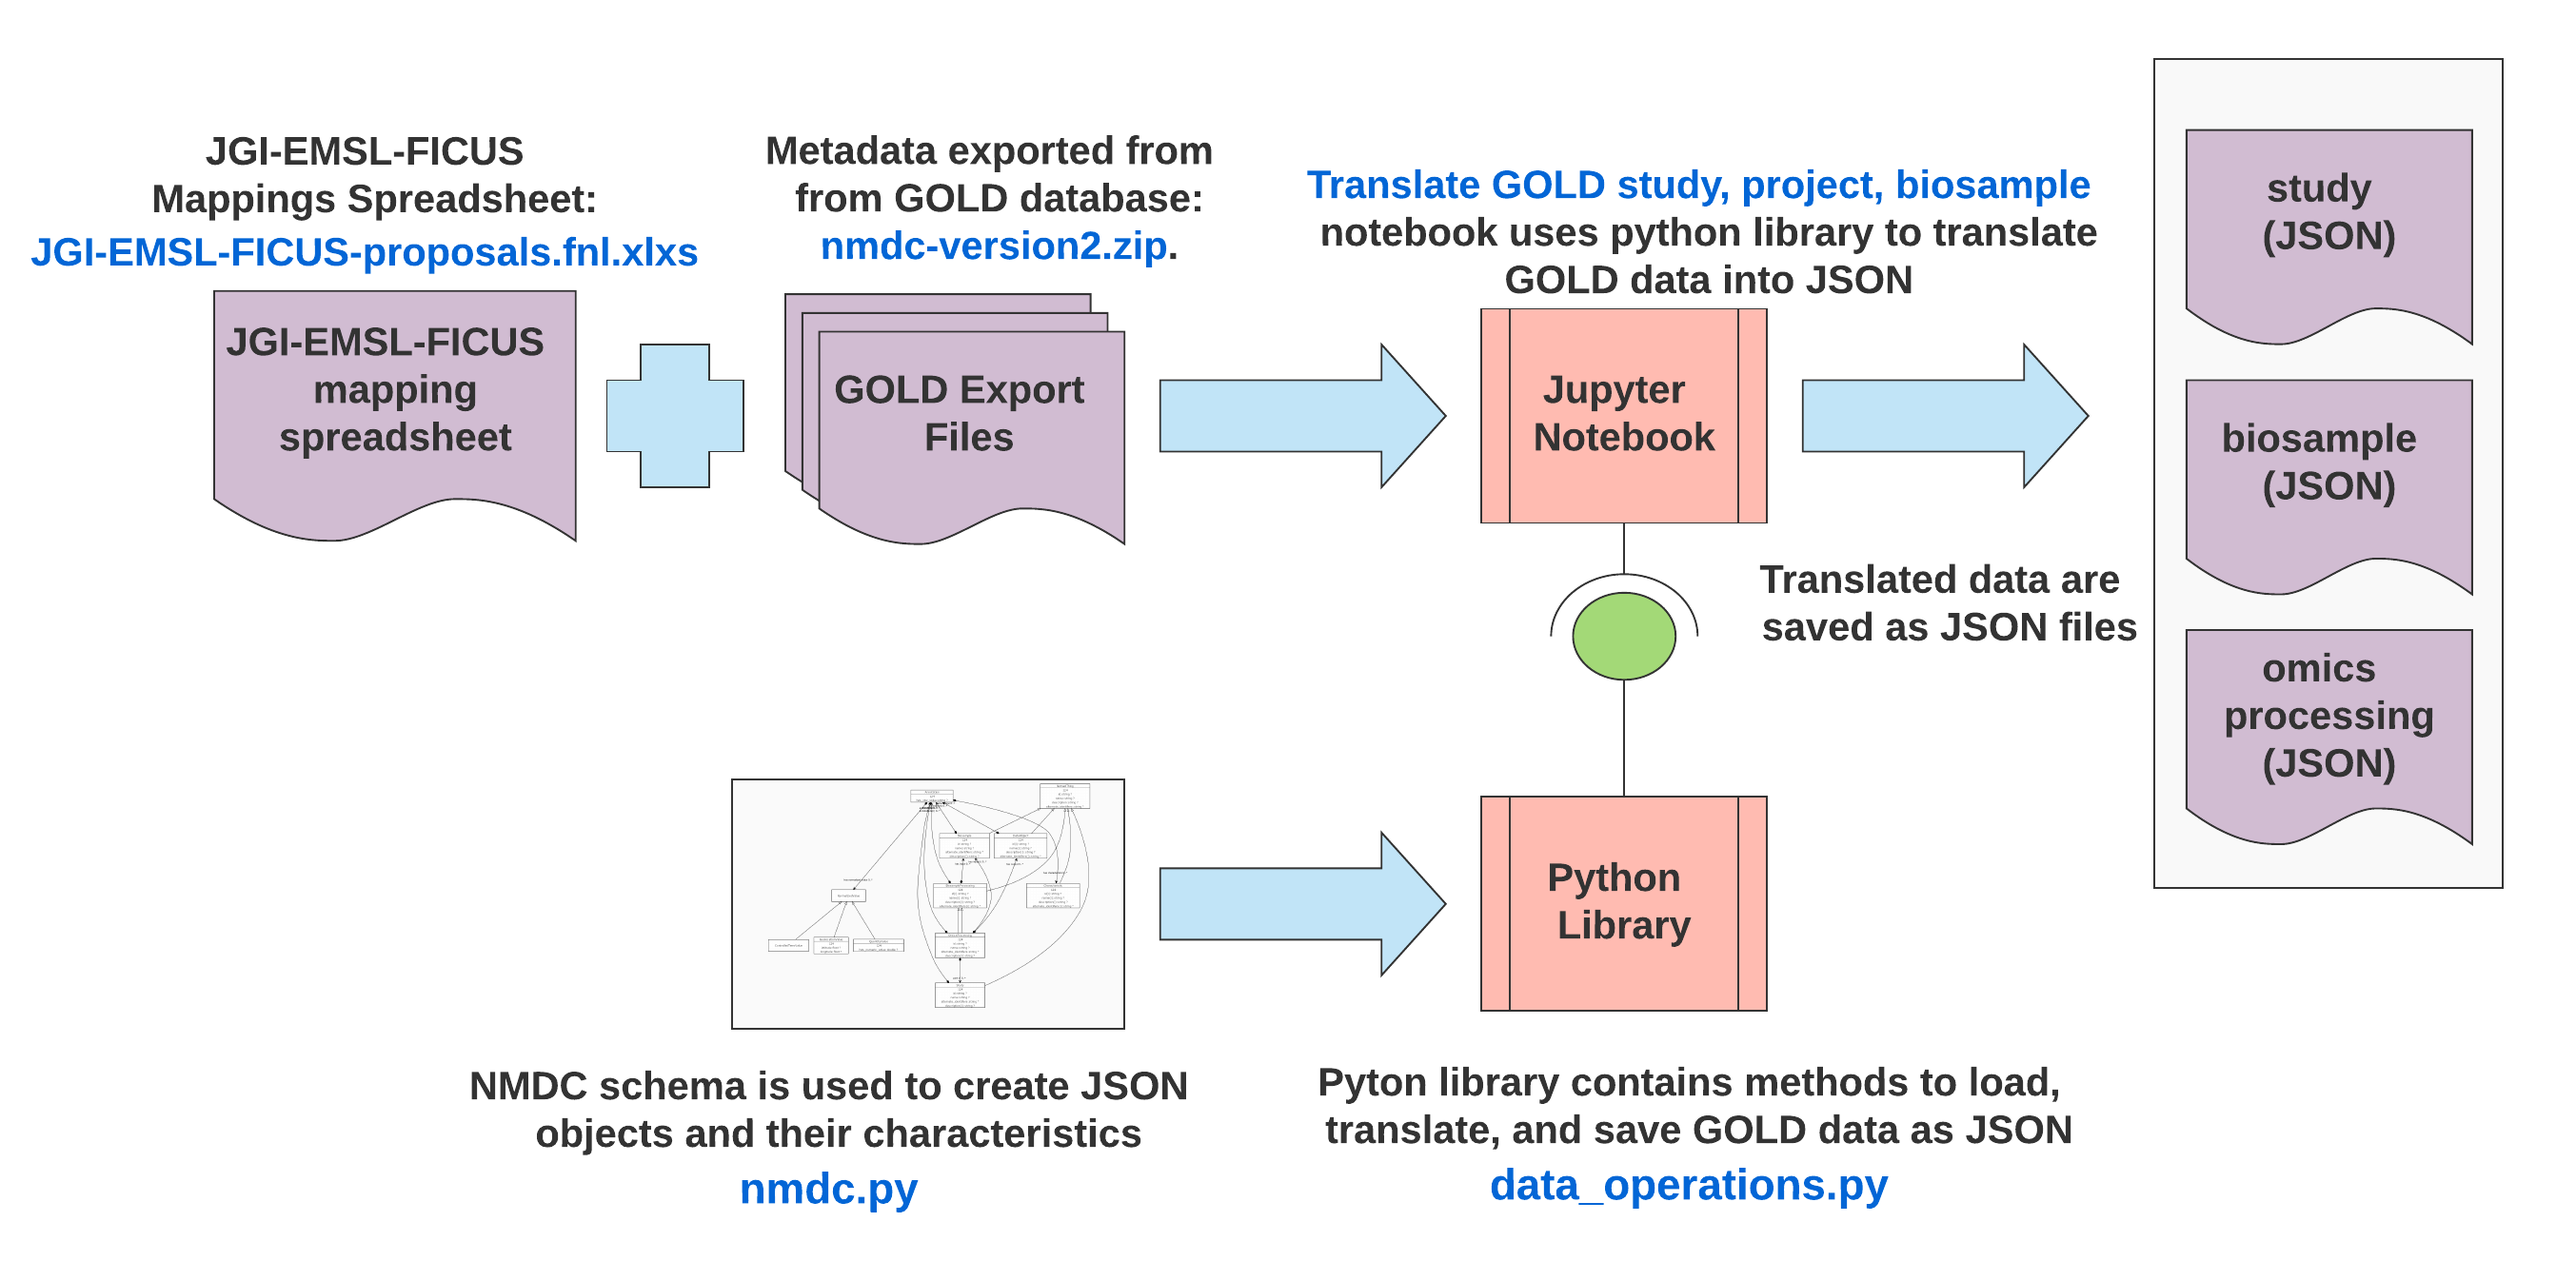
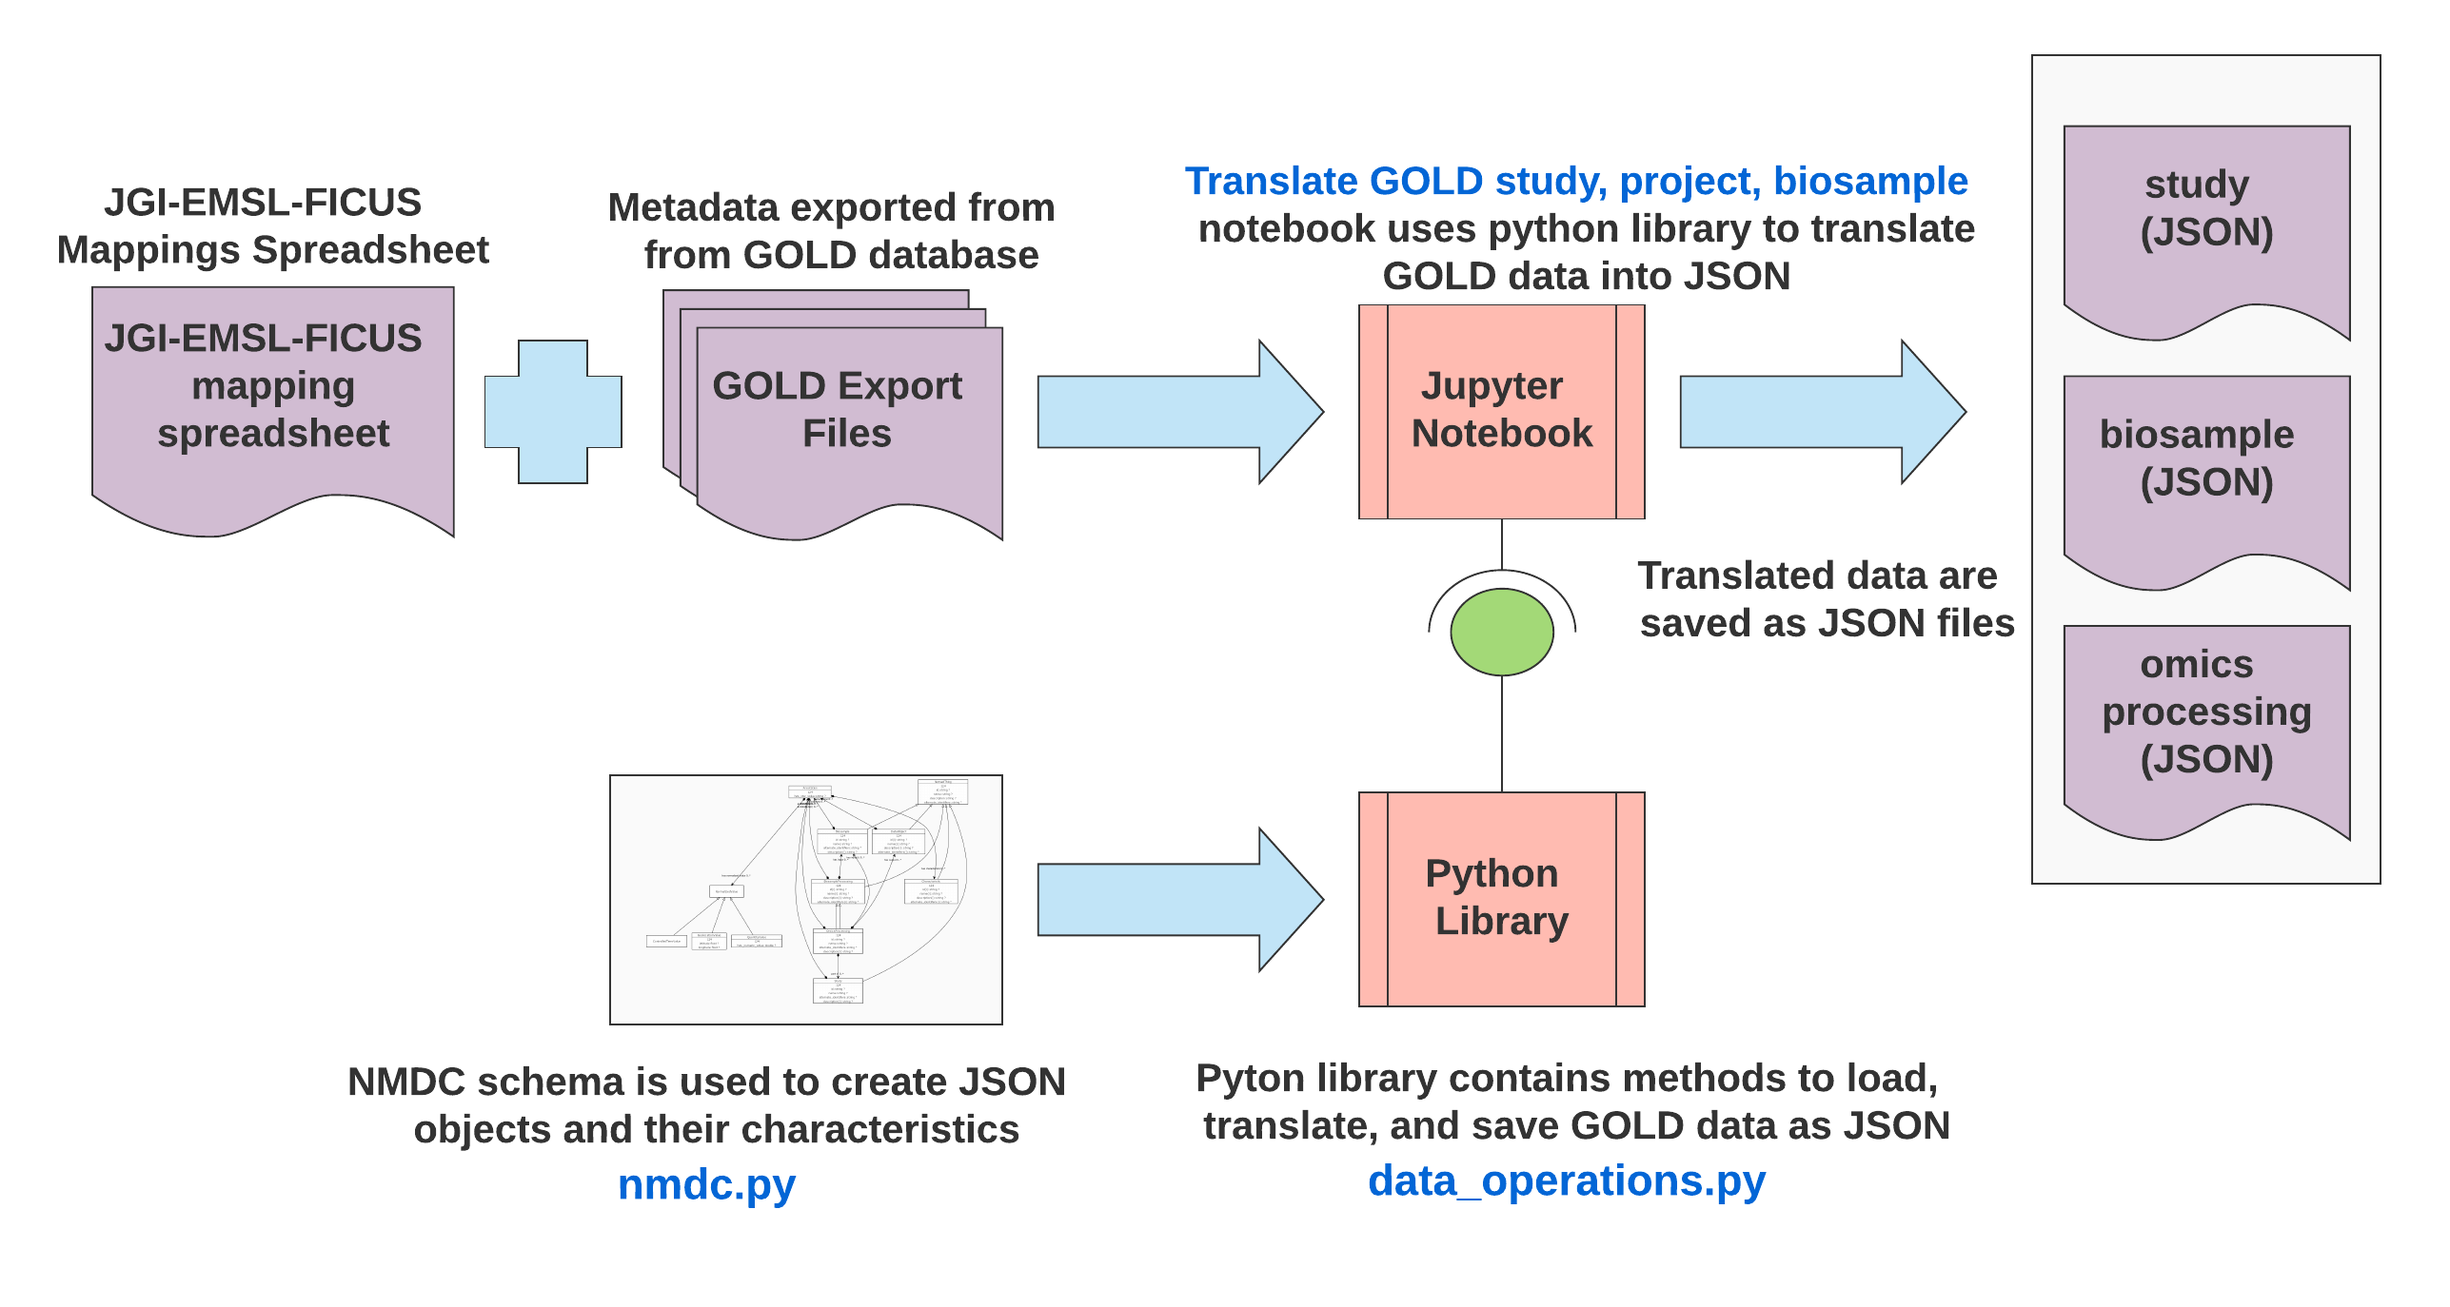
update notebooks readme

Changed region(s): [[0.0, 0.0936, 0.9635, 0.6865], [0.1243, 0.5929, 0.8081, 0.9361], [0.8392, 0.0312, 0.9635, 0.0624]]

diff --git a/metadata-translation/notebooks/README.md b/metadata-translation/notebooks/README.md
@@ -20,16 +20,36 @@ The metadata translation workflow consists of the notebooks executed in the foll
 2. [Translate GOLD data objects](https://github.com/microbiomedata/nmdc-metadata/blob/master/metadata-translation/notebooks/translate-GOLD-data-objects.ipynb)
 3. [Translate EMSL data](https://github.com/microbiomedata/nmdc-metadata/blob/master/metadata-translation/notebooks/translate-EMSL-data.ipynb)
 
-A hig-level overview of the translation process is depicted below.  The output of the last step is forwarded to the web-development team for ingestion.
+A high-level overview of the translation process is depicted below. At each step, metadata and the [NMDC schema](lib/nmdc.py) are input into the translation notebook, and JSON files are created. The output of the last step is forwarded to the web-development team for ingestion and display on the [NMDC pilot site](https://microbiomedata.github.io/pilot/).  
+
 ![img](images/NMDC-jupyter-translation-workflow.png)
 
-## Translate GOLD study, project, biosample
-![img](images/GOLD-study-project-biosample-translation.png)
+## Translate GOLD study, project, biosample 
+Metadata from [GOLD](https://gold.jgi.doe.gov/) and mapping information are input into the translation process notebook. The output of this initial step consists of a set JSON files with metadata about NMDC studies, omics processings, and biosamples.  
+
+The metadata files for this step are contained in:
+* [nmdc-version2.zip](https://drive.google.com/drive/u/1/folders/1Wohthyv23Wi6VjY2i_N3AkZuuKPL_P_Q): contains [GOLD's](https://gold.jgi.doe.gov/) metadata.
+* [JGI-EMSL-FICUS-proposals.fnl.xlsx](https://drive.google.com/drive/u/1/folders/1frzGlz8EB8inpVokNTSwD6Ia94eVUlsZ) contains mappings between [GOLD's](https://gold.jgi.doe.gov/) studies and [EMSL](https://www.pnnl.gov/environmental-molecular-sciences-laboratory) proposals.
+
+![img](images/GOLD-study-project-biosample-translation.png) 
 
 ## Translate GOLD data objects
+Metadata from [JAMO's](https://storageconference.us/2018/Presentations/Beecroft.pdf) are input into the translation notebook. Omics processing metadata is updated to include links between omics processing and the outputs (i.e., data objects) of omics processings.
+
+The metadata files for this step are contained in:
+* [ficus_project_fastq.tsv](https://drive.google.com/drive/u/1/folders/1frzGlz8EB8inpVokNTSwD6Ia94eVUlsZ) (sequencing metadata)
+* [ficus_project_fna.tsv](https://drive.google.com/drive/u/1/folders/1frzGlz8EB8inpVokNTSwD6Ia94eVUlsZ) (nucleotide assembly metadata)
+* [ficus_project_faa.tsv](https://drive.google.com/drive/u/1/folders/1frzGlz8EB8inpVokNTSwD6Ia94eVUlsZ) (amino acid assembly metadata)  
+  
 ![img](images/GOLD-data-objects-translation.png)
 
 ## Translate EMSL data
+Metadata from [EMSL](https://www.pnnl.gov/environmental-molecular-sciences-laboratory) are input into the translation notebook. Omics processing and data object metadata are updated to include links between omics processing and studies and the outputs i.e., data objects) of omics processings. The final output of this steps is a stet of JSON files are ingested by the [NMDC pilot site](https://microbiomedata.github.io/pilot/).
+
+The metadata files for this step are contained in:
+* [EMSL_FICUS_project_process_data_export.xlsx](https://drive.google.com/drive/u/1/folders/1frzGlz8EB8inpVokNTSwD6Ia94eVUlsZ): contains [EMSL](https://www.pnnl.gov/environmental-molecular-sciences-laboratory) experiment metadata.
+* [FICUS - JGI-EMSL Proposal - Gold Study - ID mapping and PI.xlsx](https://drive.google.com/drive/u/1/folders/1frzGlz8EB8inpVokNTSwD6Ia94eVUlsZ): contains mappings between [EMSL](https://www.pnnl.gov/environmental-molecular-sciences-laboratory) experiment metadata and [GOLD](https://gold.jgi.doe.gov/) studies.
+
 ![img](images/EMSL-data-translation.png)
 
 ## Future work

diff --git a/README.md b/README.md
@@ -34,6 +34,7 @@ At present, we ingest metadata from the [Joint Genome Institute (JGI)](https://j
 
 Metadata from [JGI](https://jgi.doe.gov/) is exported from the Institute's [Genomes Online Database (GOLD)](https://gold.jgi.doe.gov/) and [JGI Archive and Metadata Organizer (JAMO)](https://storageconference.us/2018/Presentations/Beecroft.pdf). These exports are available as downloads:
 * [nmdc-version2.zip](https://drive.google.com/drive/u/1/folders/1Wohthyv23Wi6VjY2i_N3AkZuuKPL_P_Q): contains [GOLD's](https://gold.jgi.doe.gov/) metadata.
+* [JGI-EMSL-FICUS-proposals.fnl.xlsx](https://drive.google.com/drive/u/1/folders/1frzGlz8EB8inpVokNTSwD6Ia94eVUlsZ) contains mappings between [GOLD's](https://gold.jgi.doe.gov/) studies and [EMSL](https://www.pnnl.gov/environmental-molecular-sciences-laboratory) proposals.
 * [JAMO's](https://storageconference.us/2018/Presentations/Beecroft.pdf) metadata is contained in the files:
   - [ficus_project_fastq.tsv](https://drive.google.com/drive/u/1/folders/1frzGlz8EB8inpVokNTSwD6Ia94eVUlsZ) (sequencing metadata)
   - [ficus_project_fna.tsv](https://drive.google.com/drive/u/1/folders/1frzGlz8EB8inpVokNTSwD6Ia94eVUlsZ) (nucleotide assembly metadata)
